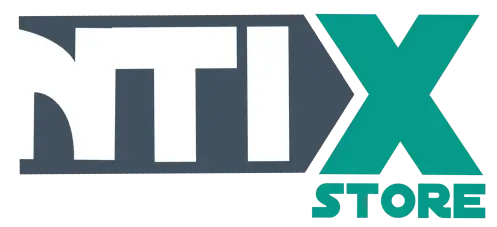
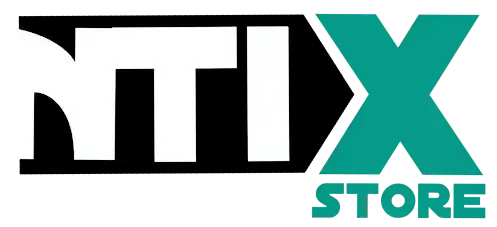
melhorias no designer

Changed region(s): [[0.0302, 0.0617, 0.7243, 0.7709]]

diff --git a/src/pages/Sobre.tsx b/src/pages/Sobre.tsx
@@ -1,5 +1,5 @@
 import React from "react";
-import { Users, Target, Award, Heart, Sparkles, Shirt, Scissors, Truck } from "lucide-react";
+import { Target, Award, Heart, Sparkles, Shirt, Scissors, Truck } from "lucide-react";
 
 const Sobre: React.FC = () => {
   const team = [
@@ -13,23 +13,23 @@ const Sobre: React.FC = () => {
 
   const values = [
     {
-      icon: <Target className="w-8 h-8" />,
+      icon: <Target  className="w-8 h-8 text-[#069b8b]" />,
       title: "Foco no Cliente",
       description:
         "Priorizamos sempre o seu estilo e satisfação com cada peça escolhida",
     },
     {
-      icon: <Award className="w-8 h-8" />,
+      icon: <Award  className="w-8 h-8 text-[#069b8b]" />,
       title: "Qualidade Premium",
       description: "Selecionamos apenas tecidos e materiais da mais alta qualidade",
     },
     {
-      icon: <Heart className="w-8 h-8" />,
+      icon: <Heart  className="w-8 h-8 text-[#069b8b]" />,
       title: "Paixão pela Moda",
       description: "Vivemos e respiramos moda, trazendo as últimas tendências para você",
     },
     {
-      icon: <Sparkles className="w-8 h-8" />,
+      icon: <Sparkles  className="w-8 h-8 text-[#069b8b]" />,
       title: "Estilo Único",
       description: "Cada peça é pensada para destacar sua personalidade única",
     },
@@ -37,17 +37,17 @@ const Sobre: React.FC = () => {
 
   const services = [
     {
-      icon: <Shirt className="w-12 h-12" />,
+      icon: <Shirt  className="w-8 h-8 text-[#069b8b]" />,
       title: "Roupas Personalizadas",
       description: "Camisetas, blusas e peças exclusivas com seu estilo único",
     },
     {
-      icon: <Scissors className="w-12 h-12" />,
+      icon: <Scissors  className="w-8 h-8 text-[#069b8b]" />,
       title: "Consultoria de Estilo",
       description: "Ajudamos você a encontrar o look perfeito para cada ocasião",
     },
     {
-      icon: <Truck className="w-12 h-12" />,
+      icon: <Truck  className="w-8 h-8 text-[#069b8b]" />,
       title: "Entrega Rápida",
       description: "Receba suas peças favoritas no conforto da sua casa",
     },
@@ -56,7 +56,7 @@ const Sobre: React.FC = () => {
   return (
     <div className="min-h-screen bg-gray-50">
       {/* Hero */}
-      <div className="bg-gradient-to-r from-blue-600 to-purple-600 text-white">
+      <div className="bg-[#069b8b] text-white">
         <div className="max-w-7xl mx-auto px-4 sm:px-6 lg:px-8 py-20">
           <div className="text-center">
             <h1 className="text-4xl md:text-5xl font-bold mb-6 font-teko">
@@ -88,13 +88,13 @@ const Sobre: React.FC = () => {
             </p>
             <div className="grid grid-cols-2 gap-6">
               <div className="text-center">
-                <div className="text-3xl font-bold text-blue-600 mb-2 font-teko">
+                <div className="text-3xl font-bold text-[#069b8b]  mb-2 font-teko">
                   2000+
                 </div>
                 <div className="text-gray-600">Clientes Satisfeitos</div>
               </div>
               <div className="text-center">
-                <div className="text-3xl font-bold text-blue-600 mb-2 font-teko">
+                <div className="text-3xl font-bold text-[#069b8b] mb-2 font-teko">
                   5★
                 </div>
                 <div className="text-gray-600">Avaliação Média</div>
@@ -204,7 +204,7 @@ const Sobre: React.FC = () => {
       </div>
 
       {/* CTA */}
-      <div className="bg-gradient-to-r from-blue-600 to-purple-600 text-white py-16">
+      <div className="bg-[#000000] text-white py-16">
         <div className="max-w-4xl mx-auto text-center px-4 sm:px-6 lg:px-8">
           <h2 className="text-3xl font-bold mb-4 font-teko">Pronto para renovar seu guarda-roupa?</h2>
           <p className="text-xl text-blue-100 mb-8 font-barlow">
@@ -215,7 +215,7 @@ const Sobre: React.FC = () => {
             href="https://wa.me/558699461236?text=Olá%2C%20gostaria%20de%20conhecer%20a%20coleção%20da%20Nectix%20Store"
             target="_blank"
             rel="noopener noreferrer"
-            className="bg-white text-blue-600 px-8 py-4 rounded-lg font-semibold hover:bg-gray-100 transition-colors"
+            className="bg-white text-[#069b8b] px-8 py-4 rounded-lg font-semibold hover:bg-gray-100 transition-colors"
           >
             Ver Coleção
           </a>

diff --git a/src/pages/Suporte.tsx b/src/pages/Suporte.tsx
@@ -7,10 +7,6 @@ import {
   Send,
   Clock,
   CheckCircle,
-  Package,
-  Truck,
-  RefreshCw,
-  CreditCard,
 } from "lucide-react";
 import { useForm, ValidationError } from "@formspree/react";
 
@@ -53,7 +49,7 @@ const Suporte: React.FC = () => {
   return (
     <div className="min-h-screen bg-gray-50">
       {/* Header */}
-      <div className="bg-gradient-to-r from-blue-600 to-purple-600 text-white">
+      <div className="bg-[#069b8b] text-white">
         <div className="max-w-7xl mx-auto px-4 sm:px-6 lg:px-8 py-16 text-center">
           <MessageCircle className="w-16 h-16 mx-auto mb-4" />
           <h1 className="text-4xl font-bold mb-4 font-teko">Central de Atendimento</h1>
@@ -163,16 +159,16 @@ const Suporte: React.FC = () => {
                 <button
                   type="submit"
                   disabled={state.submitting}
-                  className="w-full bg-blue-600 hover:bg-blue-700 disabled:bg-blue-400 text-white font-semibold py-3 px-4 rounded-lg transition-colors duration-200 flex items-center justify-center space-x-2"
+                  className="w-full bg-[#000000] hover:bg-[#2d2d2d] disabled:bg-blue-400 text-white font-semibold py-3 px-4 rounded-lg transition-colors duration-200 flex items-center justify-center space-x-2"
                 >
                   {state.submitting ? (
                     <>
-                      <div className="animate-spin rounded-full h-5 w-5 border-b-2 border-white"></div>
+                      <div className=" animate-spin rounded-full h-5 w-5 border-b-2 border-white"></div>
                       <span>Enviando...</span>
                     </>
                   ) : (
                     <>
-                      <Send className="w-5 h-5" />
+                      <Send className= "w-5 h-5" />
                       <span>Enviar Mensagem</span>
                     </>
                   )}
@@ -189,19 +185,19 @@ const Suporte: React.FC = () => {
               </h2>
               <div className="space-y-4">
                 <div className="flex items-center space-x-3">
-                  <Mail className="w-5 h-5 text-blue-600" />
+                  <Mail className="w-5 h-5 text-[#000000]" />
                   <span>atendimento@nectixstore.com</span>
                 </div>
                 <div className="flex items-center space-x-3">
-                  <Phone className="w-5 h-5 text-blue-600" />
+                  <Phone className="w-5 h-5 text-[#000000]" />
                   <span>+55 (86) 99946-1236</span>
                 </div>
                 <div className="flex items-center space-x-3">
-                  <MapPin className="w-5 h-5 text-blue-600" />
+                  <MapPin className="w-5 h-5 text-[#000000]" />
                   <span>Teresina, PI - Brasil</span>
                 </div>
                 <div className="flex items-center space-x-3">
-                  <Clock className="w-5 h-5 text-blue-600" />
+                  <Clock className="w-5 h-5 text-[#000000]" />
                   <span>Seg - Sáb: 8h às 20h</span>
                 </div>
               </div>

diff --git a/src/pages/Register.tsx b/src/pages/Register.tsx
@@ -7,7 +7,7 @@ import { Button } from '../components/ui/Button'
 import { Input } from '../components/ui/Input'
 
 export const Register: React.FC = () => {
-  const [location, setLocation] = useLocation()
+  const [, setLocation] = useLocation()
   const { signUp, user } = useAuth()
   const [formData, setFormData] = useState({
     name: '',
@@ -100,14 +100,16 @@ export const Register: React.FC = () => {
       <div className="max-w-md w-full space-y-8">
         {/* Logo */}
         <div className="text-center">
-          <div className="inline-flex items-center space-x-2 mb-4">
-            <div className="w-10 h-10 bg-gradient-to-r from-blue-600 to-purple-600 rounded-lg flex items-center justify-center">
-              <span className="text-white font-bold text-xl">N</span>
-            </div>
-            <span className="text-2xl font-bold bg-gradient-to-r from-blue-600 to-purple-600 bg-clip-text text-transparent">
-              Nectix
-            </span>
-          </div>
+          <div className="flex items-center justify-center">
+  <Link to="/">
+    <div className="flex items-center space-x-2 cursor-pointer">
+      <div className="w-20 h-15">
+        <img src="/ntix.webp" alt="Logo" />
+      </div>
+    </div>
+  </Link>
+</div>
+
           <h2 className="text-3xl font-bold text-gray-900">
             Criar nova conta
           </h2>
@@ -115,7 +117,7 @@ export const Register: React.FC = () => {
             Ou{' '}
             <Link
               to="/login"
-              className="text-blue-600 hover:text-blue-500 font-medium"
+              className="text-[#069b8b] font-medium"
             >
               entre na sua conta existente
             </Link>
@@ -247,7 +249,7 @@ export const Register: React.FC = () => {
             <Button
               type="submit"
               disabled={loading}
-              className="w-full h-12 text-lg bg-gradient-to-r from-blue-600 to-purple-600 hover:from-blue-700 hover:to-purple-700"
+              className="w-full h-12 text-lg bg-[#069b8b] hover:bg-[#000000] transition-colors duration-300"
             >
               {loading ? (
                 <>

diff --git a/src/pages/Login.tsx b/src/pages/Login.tsx
@@ -7,7 +7,7 @@ import { Button } from '../components/ui/Button'
 import { Input } from '../components/ui/Input'
 
 export const Login: React.FC = () => {
-  const [location, setLocation] = useLocation()
+  const [, setLocation] = useLocation()
   const { signIn, user } = useAuth()
   const [formData, setFormData] = useState({
     email: '',
@@ -77,14 +77,16 @@ export const Login: React.FC = () => {
       <div className="max-w-md w-full space-y-8">
         {/* Logo */}
         <div className="text-center">
-          <div className="inline-flex items-center space-x-2 mb-4">
-            <div className="w-10 h-10 bg-gradient-to-r from-blue-600 to-purple-600 rounded-lg flex items-center justify-center">
-              <span className="text-white font-bold text-xl">N</span>
-            </div>
-            <span className="text-2xl font-bold bg-gradient-to-r from-blue-600 to-purple-600 bg-clip-text text-transparent">
-              Nectix
-            </span>
-          </div>
+          <div className="flex items-center justify-center">
+  <Link to="/">
+    <div className="flex items-center space-x-2 cursor-pointer">
+      <div className="w-20 h-15">
+        <img src="/ntix.webp" alt="Logo" />
+      </div>
+    </div>
+  </Link>
+</div>
+
           <h2 className="text-3xl font-bold text-gray-900">
             Entre na sua conta
           </h2>
@@ -92,7 +94,7 @@ export const Login: React.FC = () => {
             Ou{' '}
             <Link
               to="/register"
-              className="text-blue-600 hover:text-blue-500 font-medium"
+              className="text-[#069b8b] font-medium"
             >
               crie uma nova conta
             </Link>
@@ -165,7 +167,7 @@ export const Login: React.FC = () => {
             <Button
               type="submit"
               disabled={loading}
-              className="w-full h-12 text-lg bg-gradient-to-r from-blue-600 to-purple-600 hover:from-blue-700 hover:to-purple-700"
+              className="w-full h-12 text-lg bg-[#069b8b] hover:bg-[#000000] transition-colors duration-300"
             >
               {loading ? (
                 <>

diff --git a/src/components/Header.tsx b/src/components/Header.tsx
@@ -85,19 +85,19 @@ export const Header: React.FC<HeaderProps> = ({
 
           {/* Menu Desktop */}
           <nav className="hidden md:flex gap-6 text-sm font-medium text-gray-600">
-            <Link to="/" className="hover:text-indigo-600 transition-colors">
+            <Link to="/" className="hover:text-[#069b8b] transition-colors">
               INICIO
             </Link>
            
             <Link
               to="/suporte"
-              className="hover:text-indigo-600 transition-colors"
+              className="hover:text-[#069b8b] transition-colors"
             >
               SUPORTE
             </Link>
             <Link
               to="/sobre"
-              className="hover:text-indigo-600 transition-colors"
+              className="hover:text-[#069b8b] transition-colors"
             >
               SOBRE
             </Link>
@@ -128,17 +128,24 @@ export const Header: React.FC<HeaderProps> = ({
             </Link>
 
             {/* Cart */}
-            <button
-              onClick={onCartClick}
-              className="p-2 rounded-full hover:bg-gray-100 transition-colors relative"
-            >
-              <ShoppingCart className="h-6 w-6 text-gray-600" />
-              {cartItemCount > 0 && (
-                <span className="absolute -top-2 -right-2 bg-blue-600 text-white text-xs rounded-full h-5 w-5 flex items-center justify-center">
-                  {cartItemCount}
-                </span>
-              )}
-            </button>
+           <button
+  onClick={onCartClick}
+  className="p-2 rounded-full hover:bg-gray-100 transition-colors relative"
+>
+  {/* Substituí o ícone pelo <img /> */}
+  <img 
+    src="/meu-carrinho.webp" 
+    alt="Carrinho de compras" 
+    className="h-7 w-7 object-contain" 
+  />
+
+  {cartItemCount > 0 && (
+    <span className="absolute -top-2 -right-2 bg-[#069b8b] text-white text-xs rounded-full h-5 w-5 flex items-center justify-center">
+      {cartItemCount}
+    </span>
+  )}
+</button>
+
 
             {/* User */}
             {user ? (

diff --git a/src/components/LoginPage.tsx b/src/components/LoginPage.tsx
@@ -405,7 +405,7 @@ const LoginPage: React.FC<LoginPageProps> = ({ onClose, onSuccess }) => {
         <div className="text-center mb-8">
           <div className="inline-flex items-center space-x-2 mb-4">
             <div className="w-10 h-10 bg-gradient-to-r from-blue-600 to-purple-600 rounded-lg flex items-center justify-center">
-              <span className="text-white font-bold text-xl">N</span>
+              <span className="text-white font-bold text-xl">x</span>
             </div>
             <span className="text-2xl font-bold bg-gradient-to-r from-blue-600 to-purple-600 bg-clip-text text-transparent">
               Nectix
@@ -560,7 +560,7 @@ const LoginPage: React.FC<LoginPageProps> = ({ onClose, onSuccess }) => {
                   registerForm.name,
                   (value) => setRegisterForm({ ...registerForm, name: value }),
                   "Seu nome completo",
-                  <User className="h-4 w-4" />,
+                  <User className="  h-4 w-4" />,
                   formErrors.name
                 )}
 

diff --git a/src/components/Hero.tsx b/src/components/Hero.tsx
@@ -33,7 +33,7 @@ const Hero: React.FC = () => {
                 <span className="font-teko block">Nectix</span>
               </h1>
               <div className="text-right lg:text-left">
-                <span className="text-4xl sm:text-5xl lg:text-6xl font-light text-gray-400 font-teko">02</span>
+                <span className="text-4xl sm:text-5xl lg:text-6xl font-light text-gray-400 font-teko">07</span>
               </div>
             </div>
 
